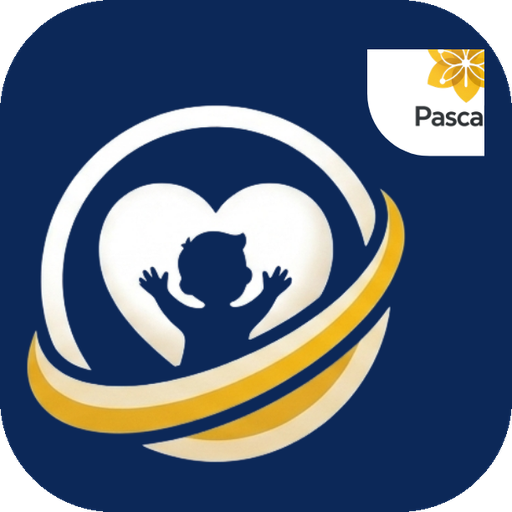
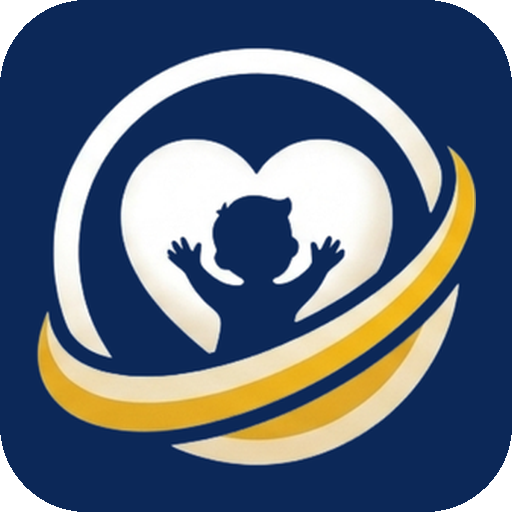
fix(nutricion): el simbolo del encabezado llevaba media insignia recortada
El logotipo del encabezado se veia desconfigurado porque nana-dnt-simbolo.png
se habia recortado a ojo del lockup completo y arrastraba un pedazo de la
insignia de PascalIA: en 46 px eso es un recuadro blanco con media palabra
adentro. El recorte redondeado dejaba ademas una hebra blanca de un pixel
sobre la curva de las esquinas.

Los iconos pasan a generarse con assets/generar-iconos.py, que dibuja el
recuadro azul de cero y localiza el emblema por su contenido —luminancia sobre
el azul—, tapando antes la insignia, el texto y el filete. Ninguna de las dos
cosas puede volver a pasar, y si la marca cambia se vuelve a correr.

- assets/nana-dnt-logo-original.png: el lockup tal como llego, como fuente.
- nana-dnt-simbolo.png: solo el emblema, centrado, al 86 % del lado.
- icono-32: redondeado; icono-180 y 192: a sangre, que iOS y Android aplican
  su propia mascara.
- nana-dnt-logo.png: el lockup grande conserva la insignia —ahi se lee— pero
  sin la hebra blanca.

Calculadora de FTLC
-------------------
Informacion -> Tratamiento abre ahora la calculadora oficial de UNICEF
Colombia (lineamientodesnutricion.unicef.org.co/ftlc) incrustada, sin salir
del modulo.

- No se carga sola: es un sitio ajeno y no tiene por que pedirse cada vez que
  alguien entra a leer los esquemas. Se carga al pulsar, y al cerrar se
  elimina el marco en vez de dejarlo corriendo detras.
- Cabecera con el dominio a la vista y salida a pestana nueva, para que nadie
[…]

diff --git a/NUTRICIÓN NANA DNT/app/informacion.js b/NUTRICIÓN NANA DNT/app/informacion.js
@@ -449,8 +449,67 @@ var DNTInfo = (function () {
   }
 
   // ═══ Tratamiento ═════════════════════════════════════════════════
+
+  // Calculadora oficial de FTLC del lineamiento nacional. Se incrusta para no
+  // sacar al profesional del módulo en mitad de una atención, pero nunca se
+  // carga sola: es un sitio ajeno y no tiene por qué pedirse cada vez que
+  // alguien entra a leer los esquemas.
+  var FTLC_URL = 'https://lineamientodesnutricion.unicef.org.co/ftlc';
+
+  function tarjetaCalculadora() {
+    return '<div class="tarjeta" id="tjCalc">' +
+      '<h3 style="margin-bottom:6px">🧮 Calculadora de FTLC</h3>' +
+      '<p class="tarjeta-sub">Herramienta oficial del lineamiento nacional para el manejo integrado de la ' +
+        'desnutrición aguda, de UNICEF Colombia. Calcula los sobres de fórmula terapéutica lista para el ' +
+        'consumo a partir del peso y la clasificación del niño.</p>' +
+      '<div id="zonaCalc">' +
+        '<div style="display:flex;gap:9px;flex-wrap:wrap">' +
+          '<button class="btn" id="btnAbrirCalc">Abrir la calculadora aquí</button>' +
+          '<a class="btn sec" href="' + FTLC_URL + '" target="_blank" rel="noopener noreferrer">' +
+            'Abrir en una pestaña nueva ↗</a>' +
+        '</div>' +
+      '</div>' +
+      '<div class="aviso ojo" style="margin-top:12px"><span class="ic">!</span><div>' +
+        '<strong>La calculadora no sustituye el esquema de la tabla</strong>' +
+        'Es una ayuda de cálculo: la dosis y la duración las define la clasificación del caso según ' +
+        'las Resoluciones 2350 de 2020 y 115 de 2026.</div></div>' +
+    '</div>';
+  }
+
+  function abrirCalculadora() {
+    $('zonaCalc').innerHTML =
+      '<div class="ext">' +
+        '<div class="ext-cab">' +
+          '<div><div class="tit">Calculadora de FTLC</div>' +
+            '<div class="url">lineamientodesnutricion.unicef.org.co</div></div>' +
+          '<div class="der">' +
+            '<a class="btn sec chico" href="' + FTLC_URL + '" target="_blank" rel="noopener noreferrer">' +
+              'Pestaña nueva ↗</a>' +
+            '<button class="btn sec chico" id="btnCerrarCalc">Cerrar</button>' +
+          '</div>' +
+        '</div>' +
+        '<iframe class="ext-marco" id="marcoCalc" src="' + FTLC_URL + '" loading="lazy" ' +
+          'title="Calculadora de FTLC — UNICEF Colombia" ' +
+          'sandbox="allow-scripts allow-same-origin allow-forms allow-popups allow-popups-to-escape-sandbox">' +
+        '</iframe>' +
+        '<div class="ext-pie">Contenido de UNICEF Colombia, mostrado dentro del módulo. ' +
+          'Si el recuadro queda en blanco es porque ese sitio no permite incrustarse: ' +
+          '<a href="' + FTLC_URL + '" target="_blank" rel="noopener noreferrer">ábralo en una pestaña nueva</a>.</div>' +
+      '</div>';
+    $('btnCerrarCalc').onclick = function () {
+      // Quitar el marco descarga el sitio ajeno en vez de dejarlo corriendo detrás.
+      $('zonaCalc').innerHTML = '';
+      panelTratamiento();
+      $('tjCalc').scrollIntoView({ behavior: 'smooth', block: 'start' });
+    };
+    // Al recuadro completo y por su borde superior, para que la cabecera con el
+    // origen y la salida a pestaña nueva no queden bajo la barra pegajosa.
+    $('zonaCalc').querySelector('.ext').scrollIntoView({ behavior: 'smooth', block: 'start' });
+  }
+
   function panelTratamiento() {
     $('panelInfo').innerHTML =
+      tarjetaCalculadora() +
       '<div class="tarjeta">' +
         '<h2>🥜 Esquemas de tratamiento nutricional y farmacológico ambulatorio</h2>' +
 
@@ -506,6 +565,8 @@ var DNTInfo = (function () {
           'o no es posible amamantar (Res. 115/2026).</li>' +
           '</ul></div>' +
       '</div>';
+
+    $('btnAbrirCalc').onclick = abrirCalculadora;
   }
 
   // ═══ Responsabilidades e indicadores ═════════════════════════════

diff --git a/NUTRICIÓN NANA DNT/app/estilos.css b/NUTRICIÓN NANA DNT/app/estilos.css
@@ -57,6 +57,36 @@ a { color: var(--menta); }
 :focus-visible { outline: 3px solid var(--menta-2); outline-offset: 2px; border-radius: 6px; }
 
 
+
+/* ═══ Recurso externo incrustado ══════════════════════════════════
+   La calculadora de FTLC de UNICEF se consulta sin salir del módulo. El marco
+   se anuncia como ajeno —cabecera con el dominio y salida a pestaña nueva—
+   para que nadie confunda lo que calcula ese sitio con lo que calcula este. */
+.ext {
+  border: 1px solid var(--borde); border-radius: var(--r);
+  overflow: hidden; background: var(--surface); box-shadow: var(--sombra);
+  /* El encabezado y la navegación son pegajosos (64 + 48 px): sin este margen,
+     al desplazarse hasta el marco la cabecera del recuadro queda debajo. */
+  scroll-margin-top: 128px;
+}
+.ext-cab {
+  display: flex; align-items: center; gap: 12px; flex-wrap: wrap;
+  padding: 10px 14px; background: var(--menta-luz); border-bottom: 1px solid var(--menta-borde);
+}
+.ext-cab .tit { font-weight: 700; font-size: .88rem; }
+.ext-cab .url { font-size: .73rem; color: var(--texto-2); }
+.ext-cab .der { margin-left: auto; display: flex; gap: 8px; align-items: center; }
+.ext-marco {
+  width: 100%; height: min(72vh, 780px); border: 0; display: block;
+  background: var(--surface-2);
+}
+.ext-pie {
+  padding: 10px 14px; font-size: .79rem; color: var(--texto-2);
+  background: var(--surface-2); border-top: 1px solid var(--borde);
+}
+.ext-pie a { font-weight: 700; }
+@media (max-width: 720px) { .ext-marco { height: min(66vh, 560px); } }
+
 /* ═══ Firma de quien desarrolla ════════════════════
    Va una sola vez y fuera de <main>, para que salga en todas las vistas sin
    tener que acordarse de ponerla al escribir una nueva. `.credito` es la

diff --git a/NUTRICIÓN NANA DNT/assets/generar-iconos.py b/NUTRICIÓN NANA DNT/assets/generar-iconos.py
@@ -1,0 +1,129 @@
+#!/usr/bin/env python3
+"""Genera los iconos de NANA DNT a partir del logotipo original.
+
+    python3 assets/generar-iconos.py        (desde la carpeta del módulo)
+
+Por qué existe
+--------------
+El «símbolo» del encabezado se había recortado a ojo del lockup completo y se
+llevaba media insignia de PascalIA en la esquina: en 46 px eso se veía como un
+recuadro blanco con un pedazo de palabra. Y el recorte redondeado dejaba un
+filete blanco de un píxel sobre la curva de las esquinas.
+
+Aquí el recuadro azul se dibuja de cero y el emblema se localiza por su
+contenido real, así que ninguna de las dos cosas puede volver a pasar. La firma
+de PascalIA no se pierde: va al pie de todas las pantallas y dentro del lockup
+grande de la pantalla de ingreso.
+"""
+
+from PIL import Image, ImageDraw, ImageFilter
+
+ORIGEN = 'assets/nana-dnt-logo-original.png'   # el lockup tal como llegó
+NAVY = (12, 40, 88, 255)
+RADIO = 86 / 512     # el redondeo del recuadro original, en proporción del lado
+OCUPA = 0.86         # cuánto del lado ocupa el emblema dentro del símbolo
+
+
+def mascara(lado, redondeado=True):
+    """Silueta del recuadro. Sin redondear va a sangre: iOS y Android aplican su
+    propia máscara y un borde transparente se vería como un halo."""
+    m = Image.new('L', (lado, lado), 0)
+    d = ImageDraw.Draw(m)
+    if redondeado:
+        d.rounded_rectangle([0, 0, lado - 1, lado - 1], radius=round(lado * RADIO), fill=255)
+    else:
+        d.rectangle([0, 0, lado - 1, lado - 1], fill=255)
+    return m
+
+
+def recuadro(lado, redondeado=True):
+    tela = Image.new('RGBA', (lado, lado), (0, 0, 0, 0))
+    tela.paste(NAVY, (0, 0, lado, lado), mascara(lado, redondeado))
+    return tela
+
+
+def emblema(origen):
+    """El aro, el corazón, el niño y la cinta dorada: sin insignia y sin texto.
+
+    Devuelve un recorte cuadrado centrado en el emblema, con su fondo azul.
+    """
+    im = origen.convert('RGBA').copy()
+    w, h = im.size
+    esc = w / 512
+
+    # La insignia de PascalIA ocupa la esquina superior derecha y no toca el
+    # emblema: entre las dos hay azul limpio. Se tapa antes de medir.
+    ImageDraw.Draw(im).rectangle([round(366 * esc), 0, w - 1, round(150 * esc)], fill=NAVY)
+
+    pix = im.load()
+    # El emblema es claro sobre azul oscuro, así que la luminancia lo aísla. El
+    # margen deja fuera el filete de las esquinas y la banda del texto.
+    caja = (round(26 * esc), round(26 * esc), round(486 * esc), round(372 * esc))
+    x0, y0, x1, y1 = w, h, -1, -1
+    for y in range(caja[1], caja[3]):
+        for x in range(caja[0], caja[2]):
+            r, g, b, a = pix[x, y]
+            if a > 128 and (0.299 * r + 0.587 * g + 0.114 * b) > 90:
+                x0, x1 = min(x0, x), max(x1, x)
+                y0, y1 = min(y0, y), max(y1, y)
+    if x1 < 0:
+        raise SystemExit('No se encontró el emblema en ' + ORIGEN)
+
+    # Recorte cuadrado centrado: así el aro queda en el medio del recuadro
+    # aunque la cinta dorada sea más ancha que alta.
+    lado = max(x1 - x0, y1 - y0) + 1
+    cx, cy = (x0 + x1) / 2, (y0 + y1) / 2
+    rec = im.crop((round(cx - lado / 2), round(cy - lado / 2),
+                   round(cx + lado / 2), round(cy + lado / 2)))
+    return rec, (x0, y0, x1, y1)
+
+
+def simbolo(origen, lado, redondeado=True):
+    arte, _ = emblema(origen)
+    med = round(lado * OCUPA)
+    capa = Image.new('RGBA', (lado, lado), (0, 0, 0, 0))
+    capa.paste(arte.resize((med, med), Image.LANCZOS), ((lado - med) // 2, (lado - med) // 2))
+    tela = Image.alpha_composite(recuadro(lado, redondeado), capa)
+    # El recorte trae su propio azul: recortarlo contra la silueta evita que
+    # asome por las esquinas redondeadas.
+    tela.putalpha(mascara(lado, redondeado))
+    return tela
+
+
+def lockup(origen, lado=512):
+    """El logotipo completo —emblema, texto e insignia— sin el filete blanco.
+
+    La máscara se encoge dos píxeles: el original traía una hebra blanca sobre
+    la curva de las esquinas, resto de haberlo recortado contra fondo claro.
+    """
+    im = origen.convert('RGBA').resize((lado, lado), Image.LANCZOS)
+    m = mascara(lado).filter(ImageFilter.MinFilter(5))
+    im.putalpha(m)
+    return im
+
+
+def principal():
+    origen = Image.open(ORIGEN)
+    arte, (x0, y0, x1, y1) = emblema(origen)
+    print('origen  %s %s' % (ORIGEN, origen.size))
+    print('emblema x %d-%d  y %d-%d  →  recorte cuadrado %s' % (x0, x1, y0, y1, arte.size))
+    print()
+
+    salidas = [
+        ('assets/nana-dnt-simbolo.png', 512, True,  'encabezado, tarjeta del portal y PDF'),
+        ('assets/icono-32.png',          32, True,  'pestaña del navegador'),
+        ('assets/icono-180.png',        180, False, 'pantalla de inicio de iOS'),
+        ('assets/icono-192.png',        192, False, 'pantalla de inicio de Android'),
+    ]
+    for ruta, med, redondeado, para in salidas:
+        simbolo(origen, med, redondeado).save(ruta, optimize=True)
+        print('  %-30s %3d px  %-11s %s' % (ruta, med,
+              'redondeado' if redondeado else 'a sangre', para))
+
+    lockup(origen).save('assets/nana-dnt-logo.png', optimize=True)
+    print('  %-30s %3d px  %-11s %s' % ('assets/nana-dnt-logo.png', 512,
+          'redondeado', 'pantalla de ingreso, con la insignia'))
+
+
+if __name__ == '__main__':
+    principal()

diff --git a/NUTRICIÓN NANA DNT/README.md b/NUTRICIÓN NANA DNT/README.md
@@ -64,6 +64,8 @@ NUTRICIÓN NANA DNT/
 │   ├── estilos.css         ← sistema de diseño
 │   └── pruebas.js          ← verificación de los motores (node app/pruebas.js)
 ├── assets/                 ← logotipo NANA DNT, firma PascalIA e iconos
+│   ├── nana-dnt-logo-original.png ← el lockup tal como llegó: la fuente de todo
+│   ├── generar-iconos.py   ← regenera los iconos (python3 assets/generar-iconos.py)
 │   ├── nana-dnt-logo.png   ← lockup completo, para la pantalla de ingreso
 │   ├── nana-dnt-simbolo.png← sólo el emblema, para el encabezado y el PDF
 │   ├── icono-{32,180,192}.png ← pestaña del navegador y pantalla de inicio
